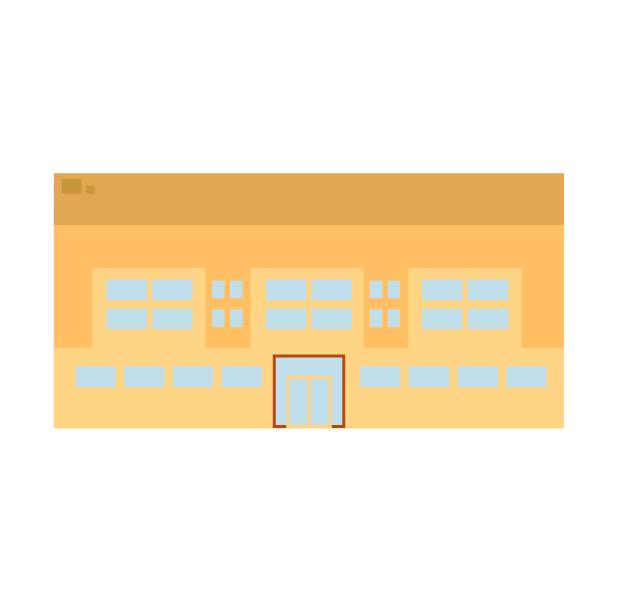
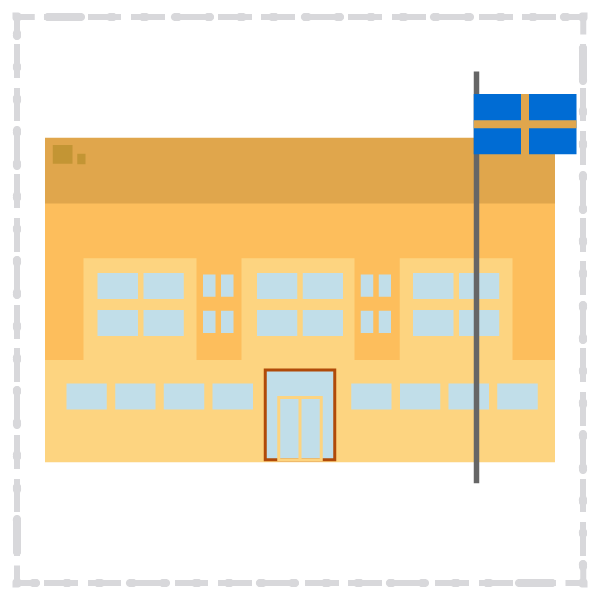
Buildings picture update

Changed region(s): [[0.0, 0.0, 0.99, 0.99], [0.0, 0.0, 0.63, 0.12]]

diff --git a/classes/map.js b/classes/map.js
@@ -1,6 +1,6 @@
 import Block from "./block.js";
 import Bomb from "./bomb.js";
-import { images } from "../main.js";
+import { images, buildings } from "../main.js";
 
 export default class Map {
   constructor(width, height, gridSize) {
@@ -12,6 +12,7 @@ export default class Map {
     this.grid = [];
     this.powerupTypes = ["bomb", "slow", "speed", "life"];
     this.block;
+    this.centerBuilding = 0;
   }
 
   draw() {
@@ -23,7 +24,7 @@ export default class Map {
         fill(200, 200, 200).rect(
           this.marginLeft + x,
           this.marginTop + y,
-          this.gridSize,
+          this.gridSize
         );
       }
     }
@@ -36,12 +37,25 @@ export default class Map {
         }
       });
     });
+    rect(
+      this.width / 2 + this.marginLeft - 90,
+      this.height / 2 + this.marginTop - 90,
+      180,
+      180
+    );
+    image(
+      buildings[this.centerBuilding],
+      this.width / 2 + this.marginLeft - 90,
+      this.height / 2 + this.marginTop - 90,
+      180,
+      180
+    );
   }
 
   async generate(i) {
     loadJSON(`../maps/map${i}.json`, (data) => {
       let map = data;
-
+      this.centerBuilding = Math.floor(Math.random() * buildings.length);
       // This creates all blocks in the grid
       for (let xIndex = 0; xIndex < map.length; xIndex++) {
         //loops through the map in x and then after y
@@ -53,7 +67,7 @@ export default class Map {
               xIndex * this.gridSize,
               yIndex * this.gridSize,
               this.gridSize,
-              true,
+              true
             );
           } else if (map[xIndex][yIndex] === 2) {
             // If the block is clear spawn point
@@ -64,7 +78,7 @@ export default class Map {
               xIndex * this.gridSize,
               yIndex * this.gridSize,
               this.gridSize,
-              false,
+              false
             );
           } else {
             this.grid[xIndex][yIndex] = null;

diff --git a/main.js b/main.js
@@ -35,6 +35,7 @@ export let img;
 export let images;
 export let skins;
 export let speedPwrImage;
+export let buildings;
 
 export let winner;
 export let loser;
@@ -69,6 +70,11 @@ function preload() {
       loadImage("assets/skinscreenbabel/06:front.png"),
     ],
   };
+  buildings = [
+    loadImage("assets/Jth.png"),
+    loadImage("assets/Aka.png"),
+    loadImage("assets/Systembolaget.png"),
+  ];
   skins = [
     [
       //Red babel
